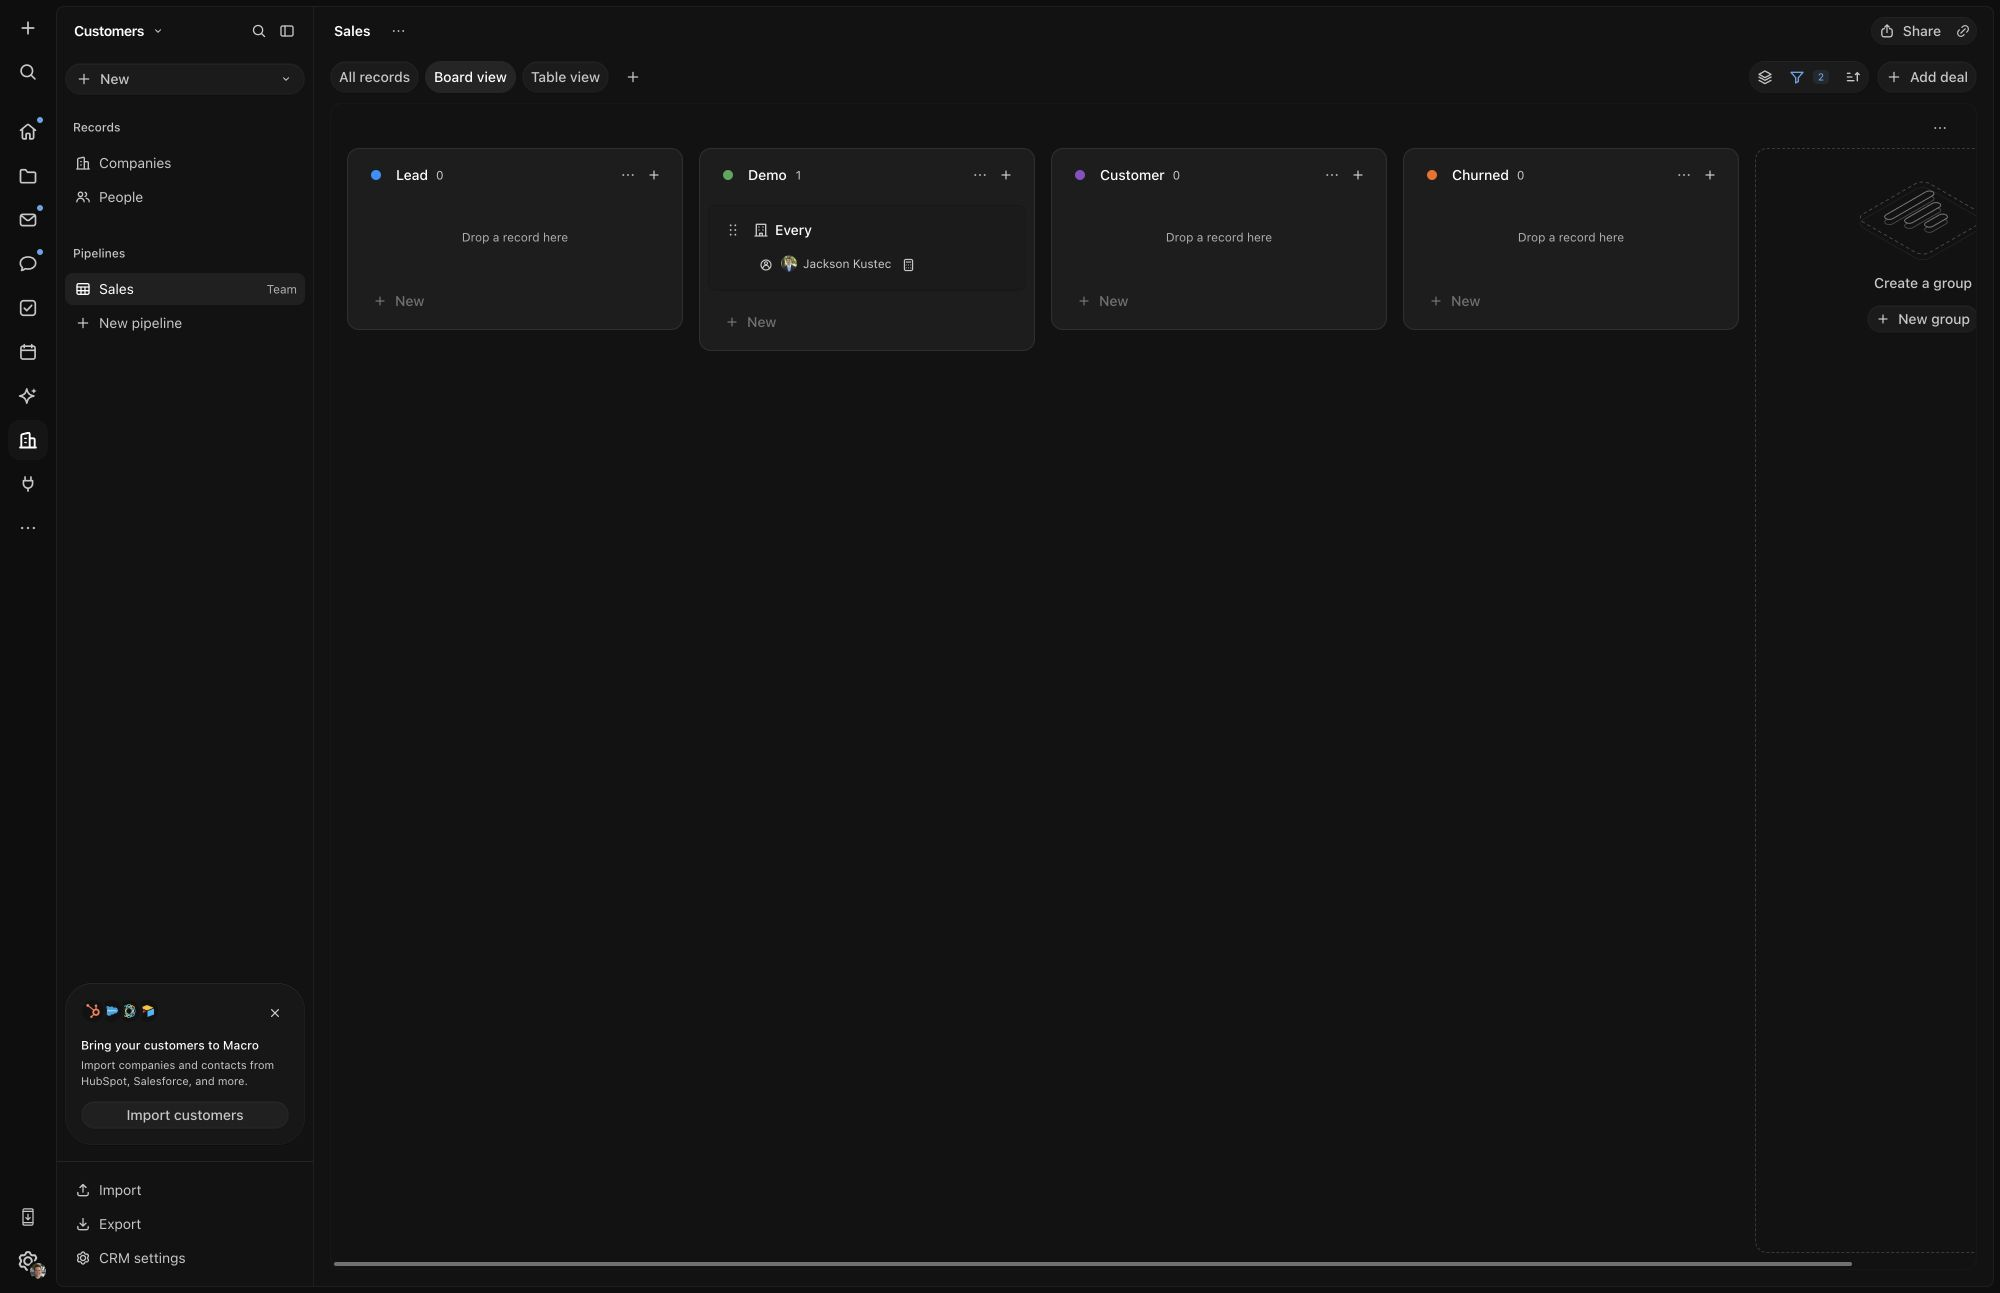
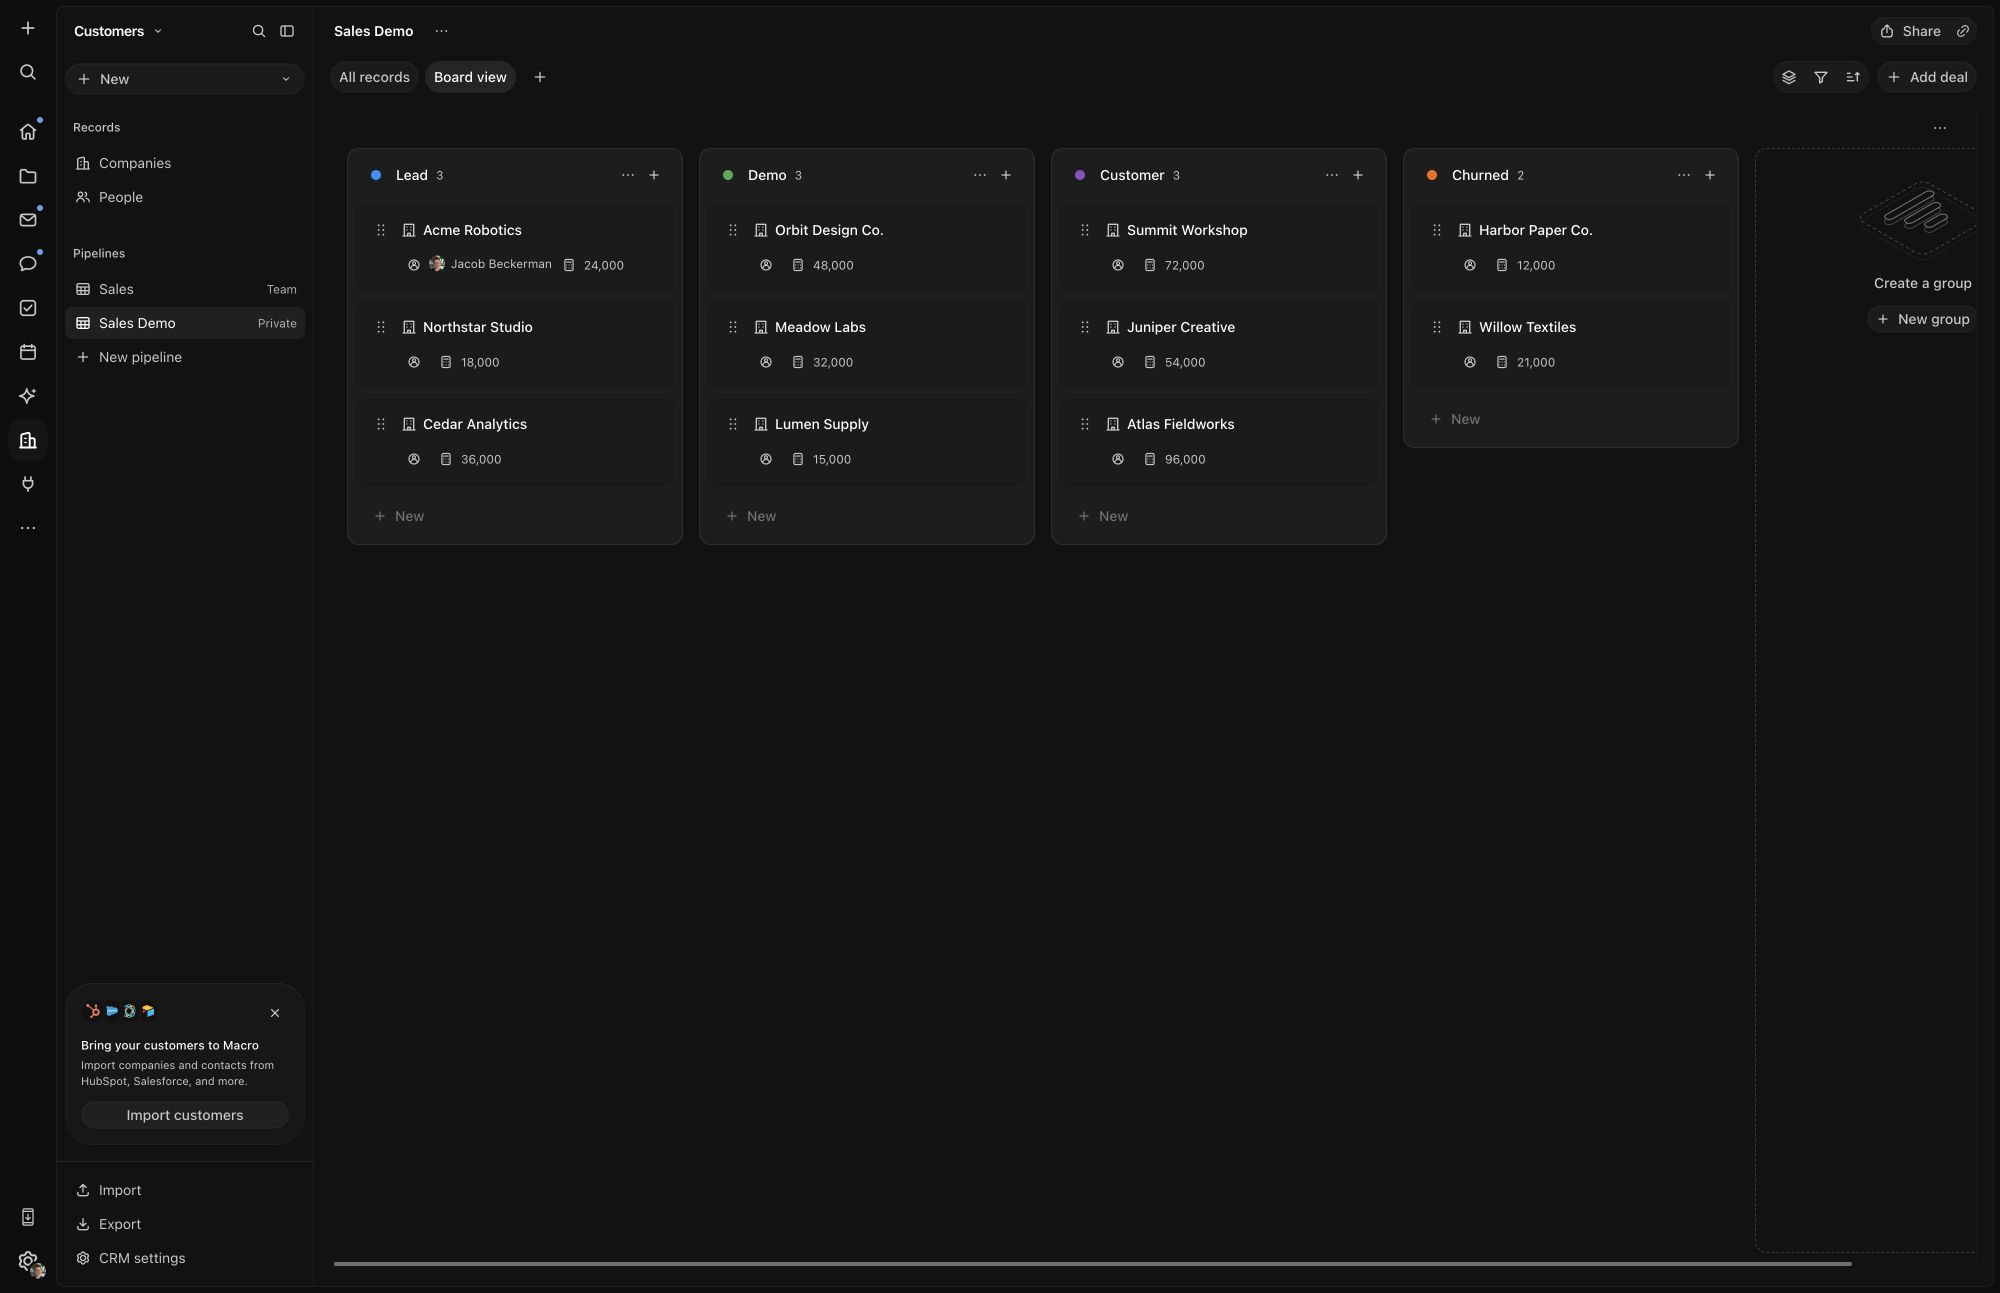
docs(readme): show a populated sample CRM pipeline
Replace the sparse CRM capture with a private Sales Demo pipeline
containing 11 fictional companies across four stages. Identify the
sample companies and deal values in the capture notes and alt text.

diff --git a/.github/readme/README.md b/.github/readme/README.md
@@ -5,7 +5,8 @@
 The six JPEGs were captured on October 28, 2026 from a signed-in
 Macro workspace in the web app. The browser viewport is 2000 × 1293;
 the channel image uses the top 2000 × 900 portion to frame the discussion.
-These are live UI captures, not marketing fixtures.
+These are live UI captures. The CRM board uses fictional sample companies
+and deal values in a dedicated private Sales Demo pipeline.
 
 | Asset | View |
 | --- | --- |
@@ -13,7 +14,7 @@ These are live UI captures, not marketing fixtures.
 | `messages-channel.jpg` | Engineers, discussing search and delegating work to an agent |
 | `tasks-list.jpg` | Search surface area project, Tasks grouped by assignee |
 | `docs-prd.jpg` | PRD: Team Channels, with tags, assignees, and details expanded |
-| `crm-board.jpg` | Sales pipeline board, grouped by stage and filtered to Every, a company shown in the previous public screenshot |
+| `crm-board.jpg` | Sales Demo pipeline with 11 fictional companies: 3 Lead, 3 Demo, 3 Customer, and 2 Churned; all deal values are sample data |
 | `agents-task-handoff.jpg` | Add Reminder Icon To Tasks, with a successful audit and PR #8824 |
 
 Keep the navigation sidebar open in every screenshot. Capture browser page
@@ -23,9 +24,9 @@ image. Move the pointer away from controls and wait for tooltips to disappear.
 Before refreshing screenshots, inspect all visible content, including sidebar
 items. Use navigation search or collapse unrelated sections where needed. Avoid
 private customer details, credentials, financial information, and personal
-conversations. Use the real pipeline board for CRM and keep the root README's
-alt text consistent with each displayed view. Review every saved image before
-staging it.
+conversations. Use a populated pipeline board with fictional sample companies
+for CRM and keep the root README's alt text consistent with each displayed
+view. Review every saved image before staging it.
 The marketing homepage's separate screenshot copies under
 `apps/marketing/src/app/assets/desktop-feature-screens` are independent.
 

diff --git a/README.md b/README.md
@@ -139,7 +139,7 @@ The problem with standalone CRM is the same as with task trackers: it's not up t
 
 **Macro fixes this by colocating your CRM with your team chat and email, instead of having a separate system.** When you @mention a company record in a message, your team can click that record to see the latest — it's much faster than navigating to your CRM to find the record, going back to Slack and pasting it in, and this speed difference makes all the difference. Secondly, @mentioning a Company/Contact creates a bidirectional link between that message and the record, so from the record later you can trace the conversations that happened. This fixes the core issue we had with Attio/HubSpot/Salesforce: the actual important conversation about a deal happens not in the CRM but over messages. Macro makes this a feature rather than making you feel disorganized about it. It's not your fault, it was the CRM's fault!
 
-![Macro Sales pipeline board grouped by stage with its navigation sidebar open](.github/readme/crm-board.jpg)
+![Macro Sales Demo pipeline with 11 fictional company cards grouped by stage and its navigation sidebar open](.github/readme/crm-board.jpg)
 
 We haven't innovated on the core idea of CRM other than what you read in the above paragraph. None of this should be that interesting:
 
